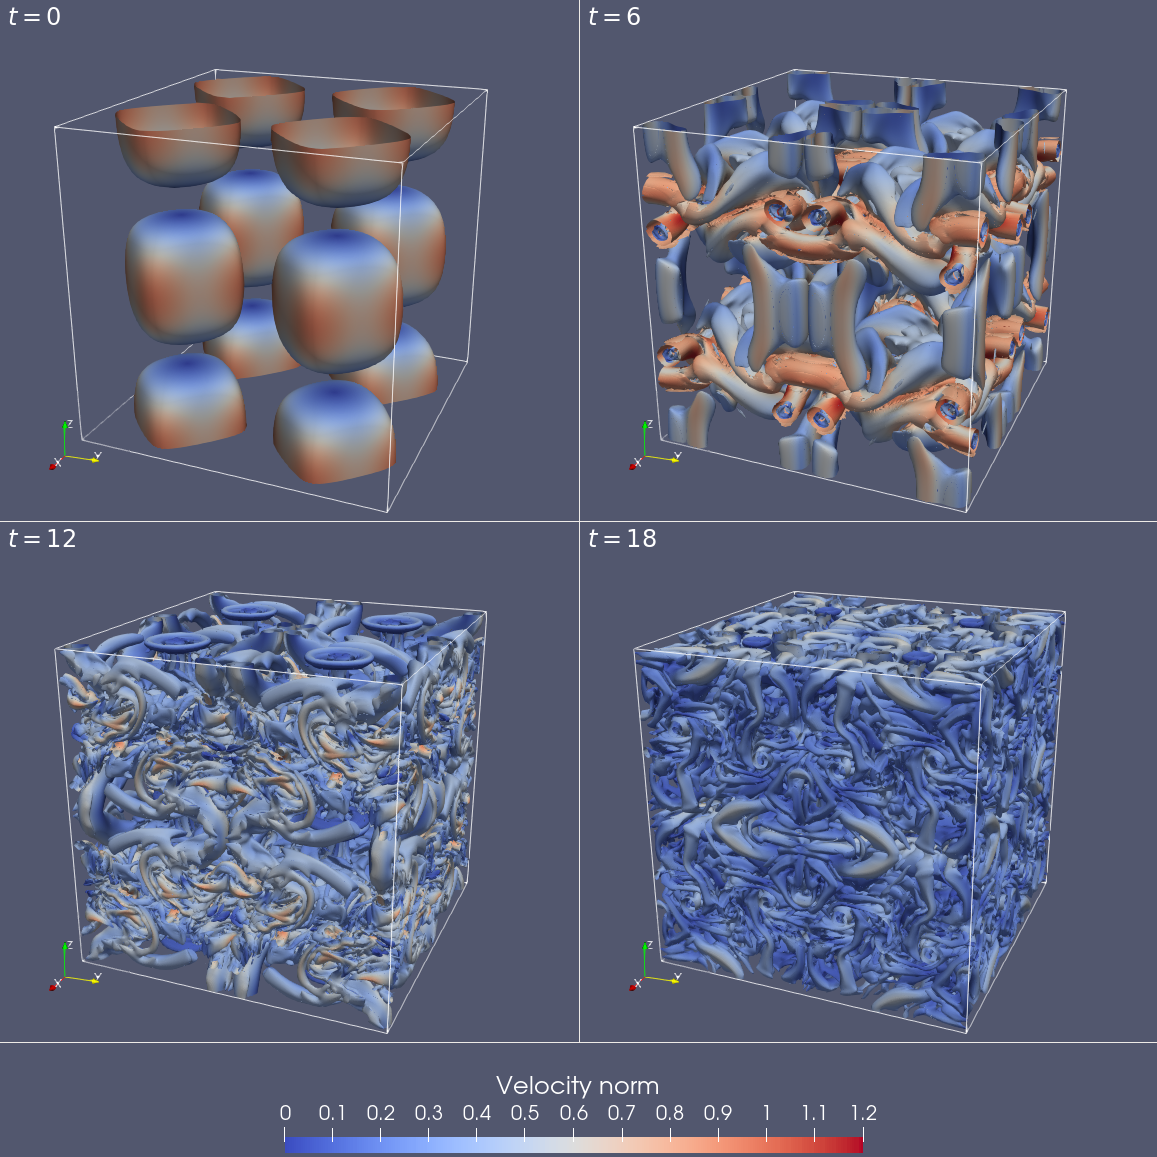
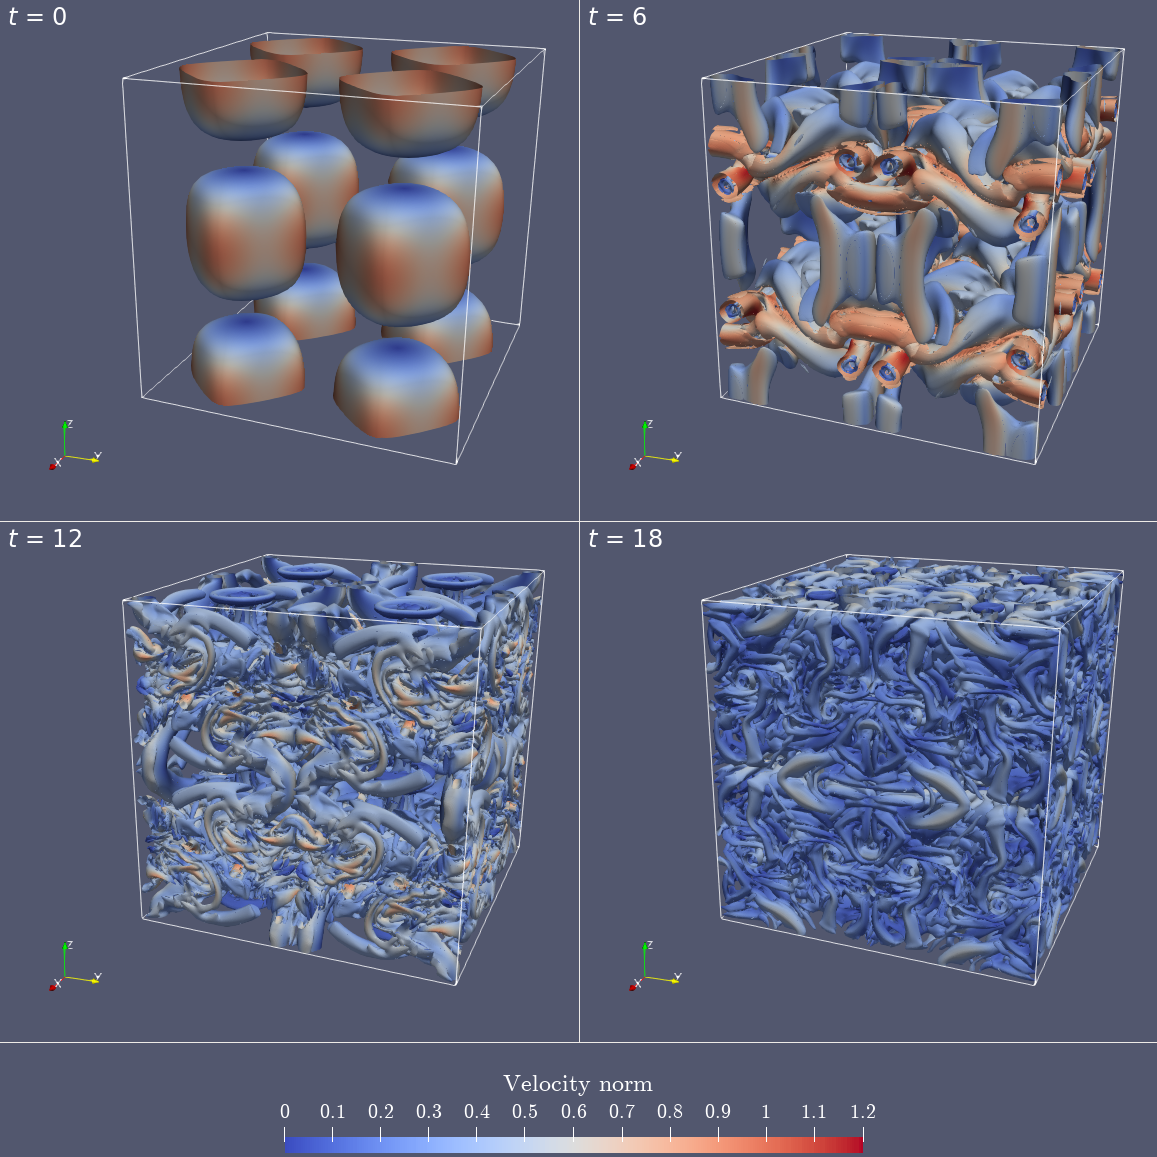
update tgv_fields

diff --git a/figures/figures_paraview.py b/figures/figures_paraview.py
@@ -216,15 +216,15 @@ def covo_cedre_fields():
 
 
 def tgv_fields():
-    pvs.Connect(input("Enter Paraview Server: "))
+    pvs.Connect('localhost')
 
     views = {}
-    for n, label in zip((0, 3000, 6000, 9000), ('$t = 0$', r'$t = 6$', r'$t = 12$', '$t = 18$')):
+    for n, label in zip((0, 3000, 6000, 9000), ('$t$ = 0', r'$t$ = 6', r'$t$ = 12', '$t$ = 18')):
         views[n] = pvs.CreateRenderView()
         reader = pvs.OpenDataFile('/visu/pseize/TGV/VISU/sol_{0:08d}/sol_{0:08d}.pvtu'.format(n))
         pvs.Show(reader, views[n], Representation='Outline')
         pvs.Show(pvs.Text(Text=label), views[n], 'TextSourceRepresentation', WindowLocation='Upper Left Corner',
-                 FontSize=24, FontFamily='File', FontFile='/usr/share/fonts/lyx/cmsy10.ttf')
+                 FontSize=24, FontFamily='File', FontFile='/usr/share/fonts/lyx/cmr10.ttf')
         calc = pvs.Calculator(reader, ResultArrayName='Norm_U', Function='sqrt(u*u + v*v + w*w)')
         ctr = pvs.Contour(calc, ContourBy=['POINTS', 'qcrit'], Isosurfaces=[0.1, ])
         display = pvs.Show(ctr, views[n], ColorArrayName=['POINTS', 'Norm_U'])
@@ -249,7 +249,8 @@ def tgv_fields():
     for n in views:
         view = views[n]
         pvs.GetScalarBar(transfert_function, views[n]).Visibility = 0
-        view.CameraPosition = [17, 7, 7]
+        view.CameraPosition = [17.7, 6, 6.2]
+        view.CameraFocalPoint = [0.7, -1, -0.8]
         view.CameraViewUp = [0, 0, 1]
         view.CameraParallelScale = 5
 
@@ -260,7 +261,11 @@ def tgv_fields():
     color_bar.ComponentTitle = ''
     color_bar.Orientation = 'Horizontal'
     color_bar.TitleFontSize = 24
+    color_bar.TitleFontFamily = 'File'
+    color_bar.TitleFontFile = '/usr/share/fonts/lyx/cmr10.ttf'
     color_bar.LabelFontSize = 20
+    color_bar.LabelFontFamily = 'File'
+    color_bar.LabelFontFile = '/usr/share/fonts/lyx/cmr10.ttf'
     color_bar.ScalarBarLength = 0.5
     color_bar.RangeLabelFormat = '%.4g'
 
